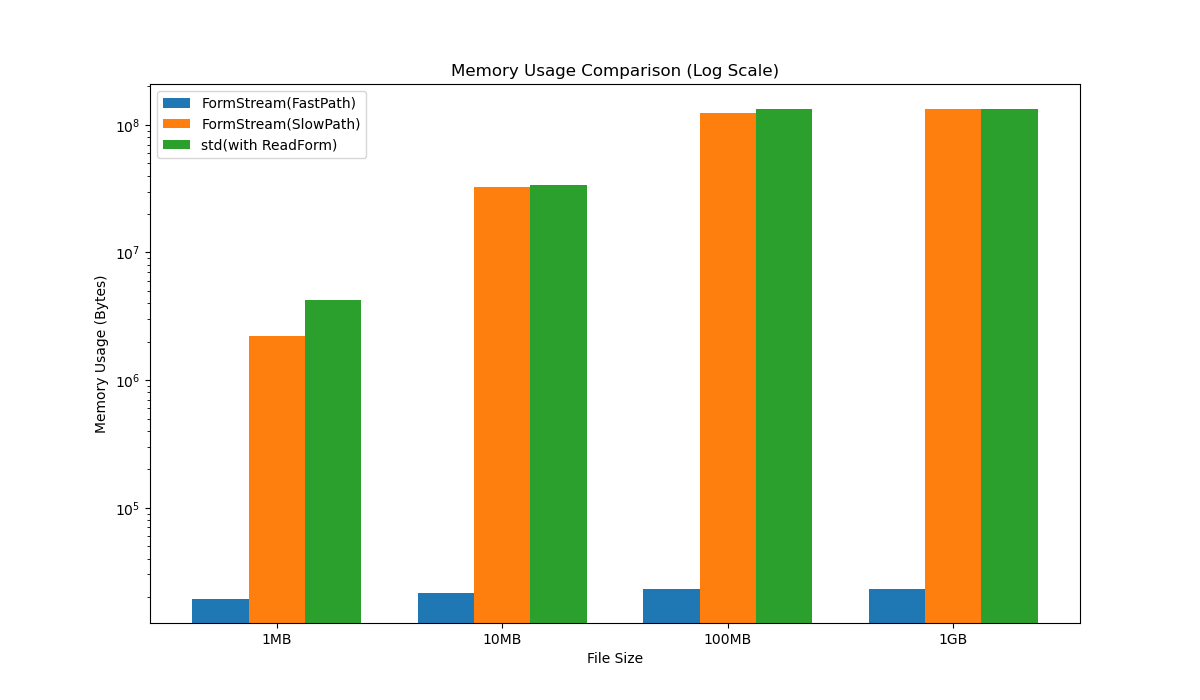
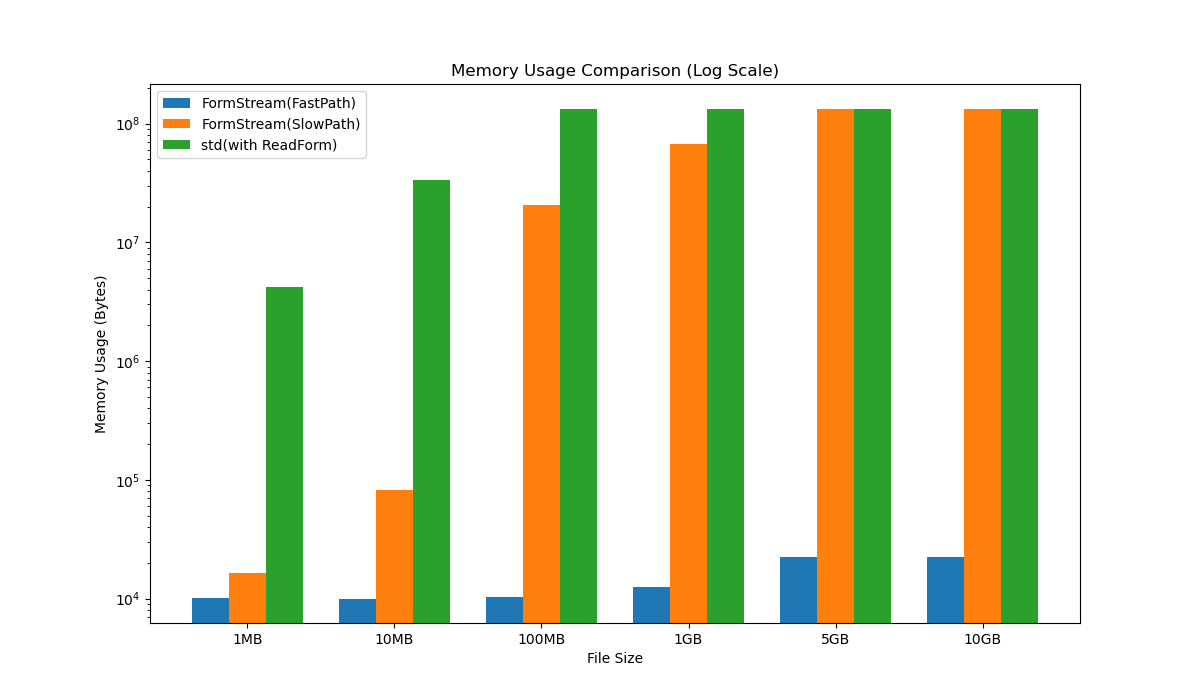
add 5GB,10GB benchmark

diff --git a/formstream_test.go b/formstream_test.go
@@ -12,6 +12,7 @@ import (
 	"testing"
 
 	"github.com/mazrean/formstream"
+	"github.com/mazrean/formstream/internal/myio"
 )
 
 func ExampleNewParser() {
@@ -69,44 +70,69 @@ large file contents
 
 const boundary = "boundary"
 
-func sampleForm(fileSize formstream.DataSize, boundary string, reverse bool) (io.Reader, error) {
-	b := bytes.NewBuffer(nil)
+func sampleForm(fileSize formstream.DataSize, boundary string, reverse bool) (io.ReadSeekCloser, error) {
+	if fileSize > 1*formstream.GB {
+		f, err := os.CreateTemp("", "formstream-test-form-")
+		if err != nil {
+			return nil, fmt.Errorf("failed to create temp file: %w", err)
+		}
 
-	mw := multipart.NewWriter(b)
+		err = createSampleForm(f, fileSize, boundary, reverse)
+		if err != nil {
+			return nil, fmt.Errorf("failed to create sample form: %w", err)
+		}
+
+		return f, nil
+	}
+
+	buf := bytes.NewBuffer(nil)
+
+	err := createSampleForm(buf, fileSize, boundary, reverse)
+	if err != nil {
+		return nil, fmt.Errorf("failed to create sample form: %w", err)
+	}
+
+	return myio.NopSeekCloser(bytes.NewReader(buf.Bytes())), nil
+}
+
+func createSampleForm(w io.Writer, fileSize formstream.DataSize, boundary string, reverse bool) error {
+	mw := multipart.NewWriter(w)
 	defer mw.Close()
 
 	err := mw.SetBoundary(boundary)
 	if err != nil {
-		return nil, fmt.Errorf("failed to set boundary: %w", err)
+		return fmt.Errorf("failed to set boundary: %w", err)
 	}
 
 	if !reverse {
 		err := mw.WriteField("field", "value")
 		if err != nil {
-			return nil, fmt.Errorf("failed to write field: %w", err)
+			return fmt.Errorf("failed to write field: %w", err)
 		}
 	}
 
 	mh := make(textproto.MIMEHeader)
 	mh.Set("Content-Disposition", `form-data; name="stream"; filename="file.txt"`)
 	mh.Set("Content-Type", "text/plain")
-	w, err := mw.CreatePart(mh)
+	pw, err := mw.CreatePart(mh)
 	if err != nil {
-		return nil, fmt.Errorf("failed to create part: %w", err)
+		return fmt.Errorf("failed to create part: %w", err)
 	}
-	_, err = io.CopyN(w, strings.NewReader(strings.Repeat("a", int(fileSize))), int64(fileSize))
-	if err != nil {
-		return nil, fmt.Errorf("failed to copy: %w", err)
+	for i := 0; i < int(fileSize/formstream.MB); i++ {
+		_, err := pw.Write([]byte(strings.Repeat("a", int(formstream.MB))))
+		if err != nil {
+			return fmt.Errorf("failed to write: %w", err)
+		}
 	}
 
 	if reverse {
 		err := mw.WriteField("field", "value")
 		if err != nil {
-			return nil, fmt.Errorf("failed to write field: %w", err)
+			return fmt.Errorf("failed to write field: %w", err)
 		}
 	}
 
-	return b, nil
+	return nil
 }
 
 func BenchmarkFormStreamFastPath(b *testing.B) {
@@ -121,6 +147,12 @@ func BenchmarkFormStreamFastPath(b *testing.B) {
 	})
 	b.Run("1GB", func(b *testing.B) {
 		benchmarkFormStream(b, 1*formstream.GB, false)
+	})
+	b.Run("5GB", func(b *testing.B) {
+		benchmarkFormStream(b, 5*formstream.GB, false)
+	})
+	b.Run("10GB", func(b *testing.B) {
+		benchmarkFormStream(b, 10*formstream.GB, false)
 	})
 }
 
@@ -137,12 +169,25 @@ func BenchmarkFormStreamSlowPath(b *testing.B) {
 	b.Run("1GB", func(b *testing.B) {
 		benchmarkFormStream(b, 1*formstream.GB, true)
 	})
+	b.Run("5GB", func(b *testing.B) {
+		benchmarkFormStream(b, 5*formstream.GB, true)
+	})
+	b.Run("10GB", func(b *testing.B) {
+		benchmarkFormStream(b, 10*formstream.GB, true)
+	})
 }
 
 func benchmarkFormStream(b *testing.B, fileSize formstream.DataSize, reverse bool) {
+	r, err := sampleForm(fileSize, boundary, reverse)
+	if err != nil {
+		b.Fatal(err)
+	}
+	defer r.Close()
+
+	b.ResetTimer()
 	for i := 0; i < b.N; i++ {
 		b.StopTimer()
-		r, err := sampleForm(fileSize, boundary, reverse)
+		_, err := r.Seek(0, io.SeekStart)
 		if err != nil {
 			b.Fatal(err)
 		}
@@ -169,7 +214,6 @@ func benchmarkFormStream(b *testing.B, fileSize formstream.DataSize, reverse boo
 		if err != nil {
 			b.Fatal(err)
 		}
-
 	}
 }
 
@@ -189,12 +233,25 @@ func BenchmarkStdMultipart_ReadForm(b *testing.B) {
 	b.Run("1GB", func(b *testing.B) {
 		benchmarkStdMultipart_ReadForm(b, 1*formstream.GB, maxMemory)
 	})
+	b.Run("5GB", func(b *testing.B) {
+		benchmarkStdMultipart_ReadForm(b, 5*formstream.GB, maxMemory)
+	})
+	b.Run("10GB", func(b *testing.B) {
+		benchmarkStdMultipart_ReadForm(b, 10*formstream.GB, maxMemory)
+	})
 }
 
 func benchmarkStdMultipart_ReadForm(b *testing.B, fileSize formstream.DataSize, maxMemory formstream.DataSize) {
+	r, err := sampleForm(fileSize, boundary, false)
+	if err != nil {
+		b.Fatal(err)
+	}
+	defer r.Close()
+
+	b.ResetTimer()
 	for i := 0; i < b.N; i++ {
 		b.StopTimer()
-		r, err := sampleForm(fileSize, boundary, false)
+		_, err := r.Seek(0, io.SeekStart)
 		if err != nil {
 			b.Fatal(err)
 		}
